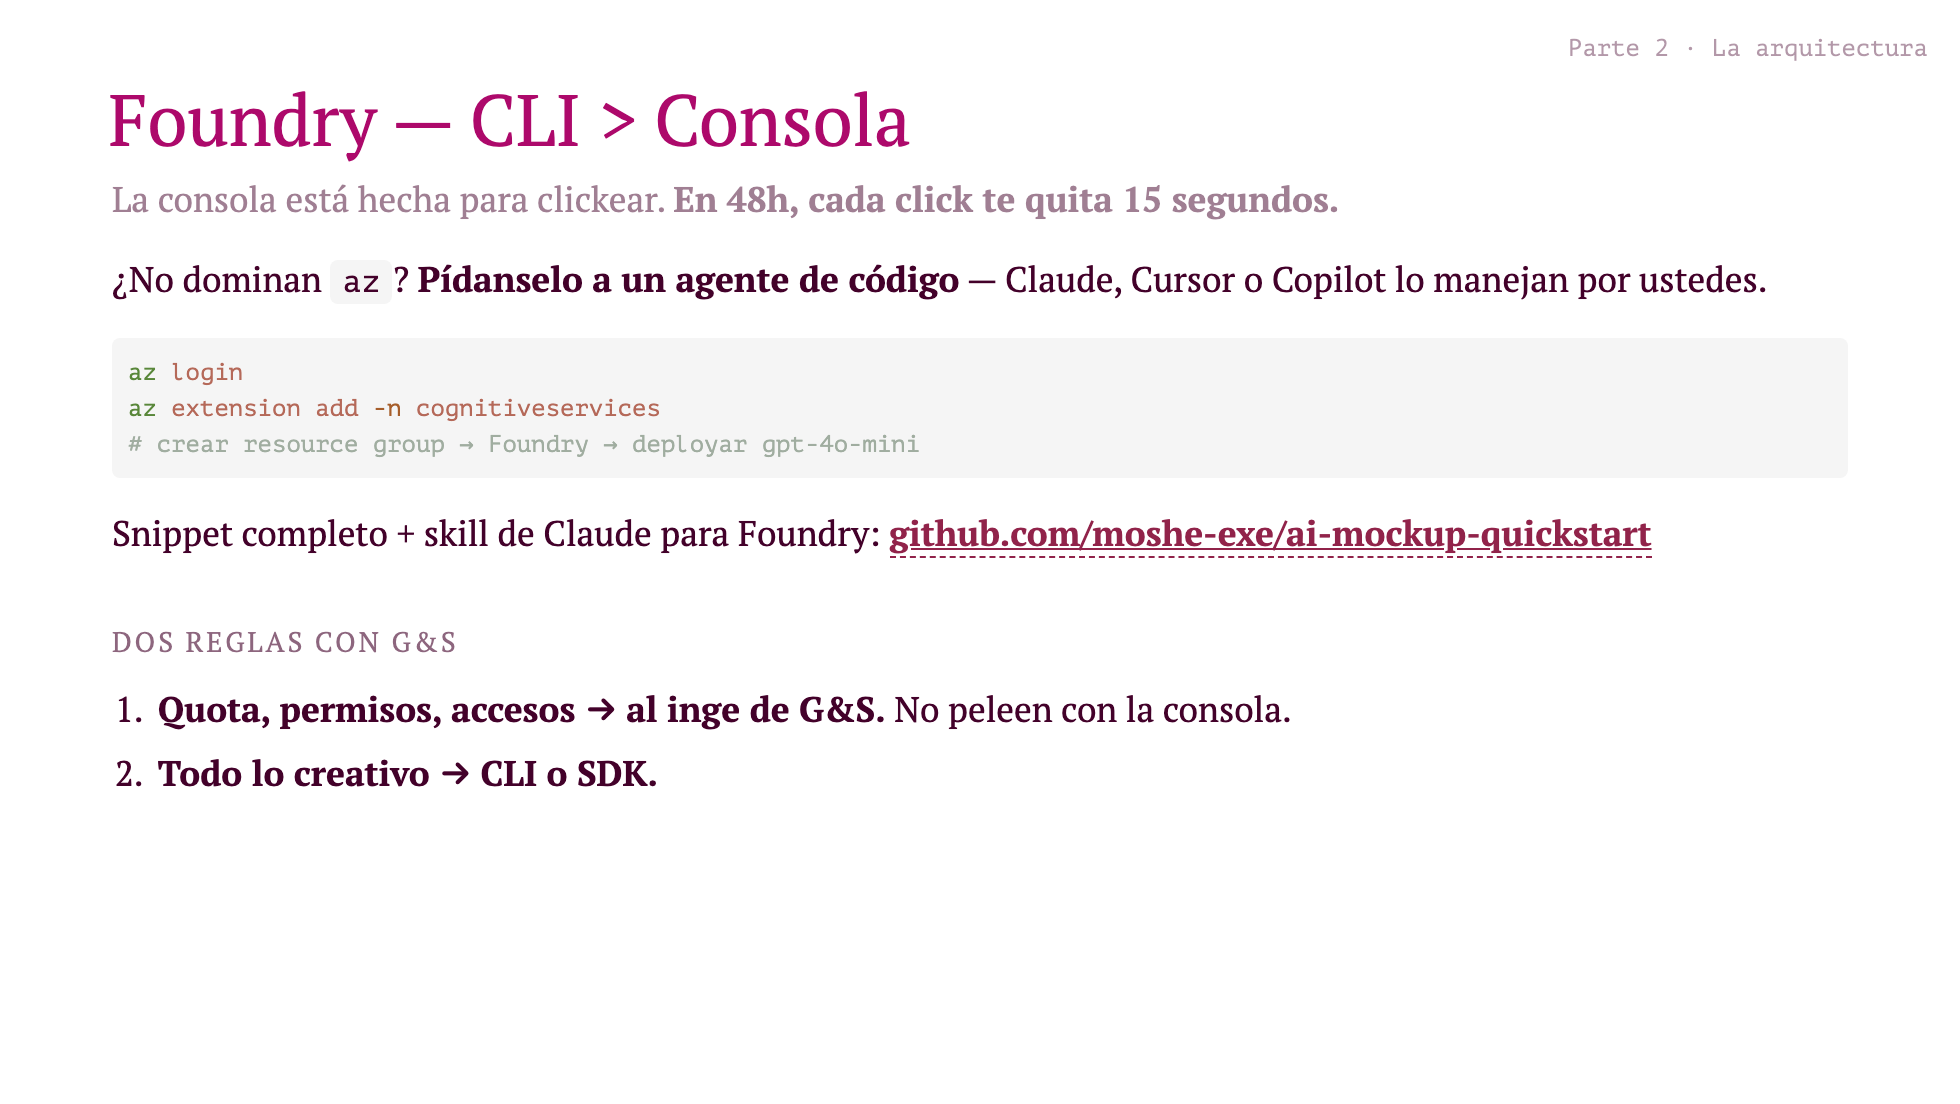
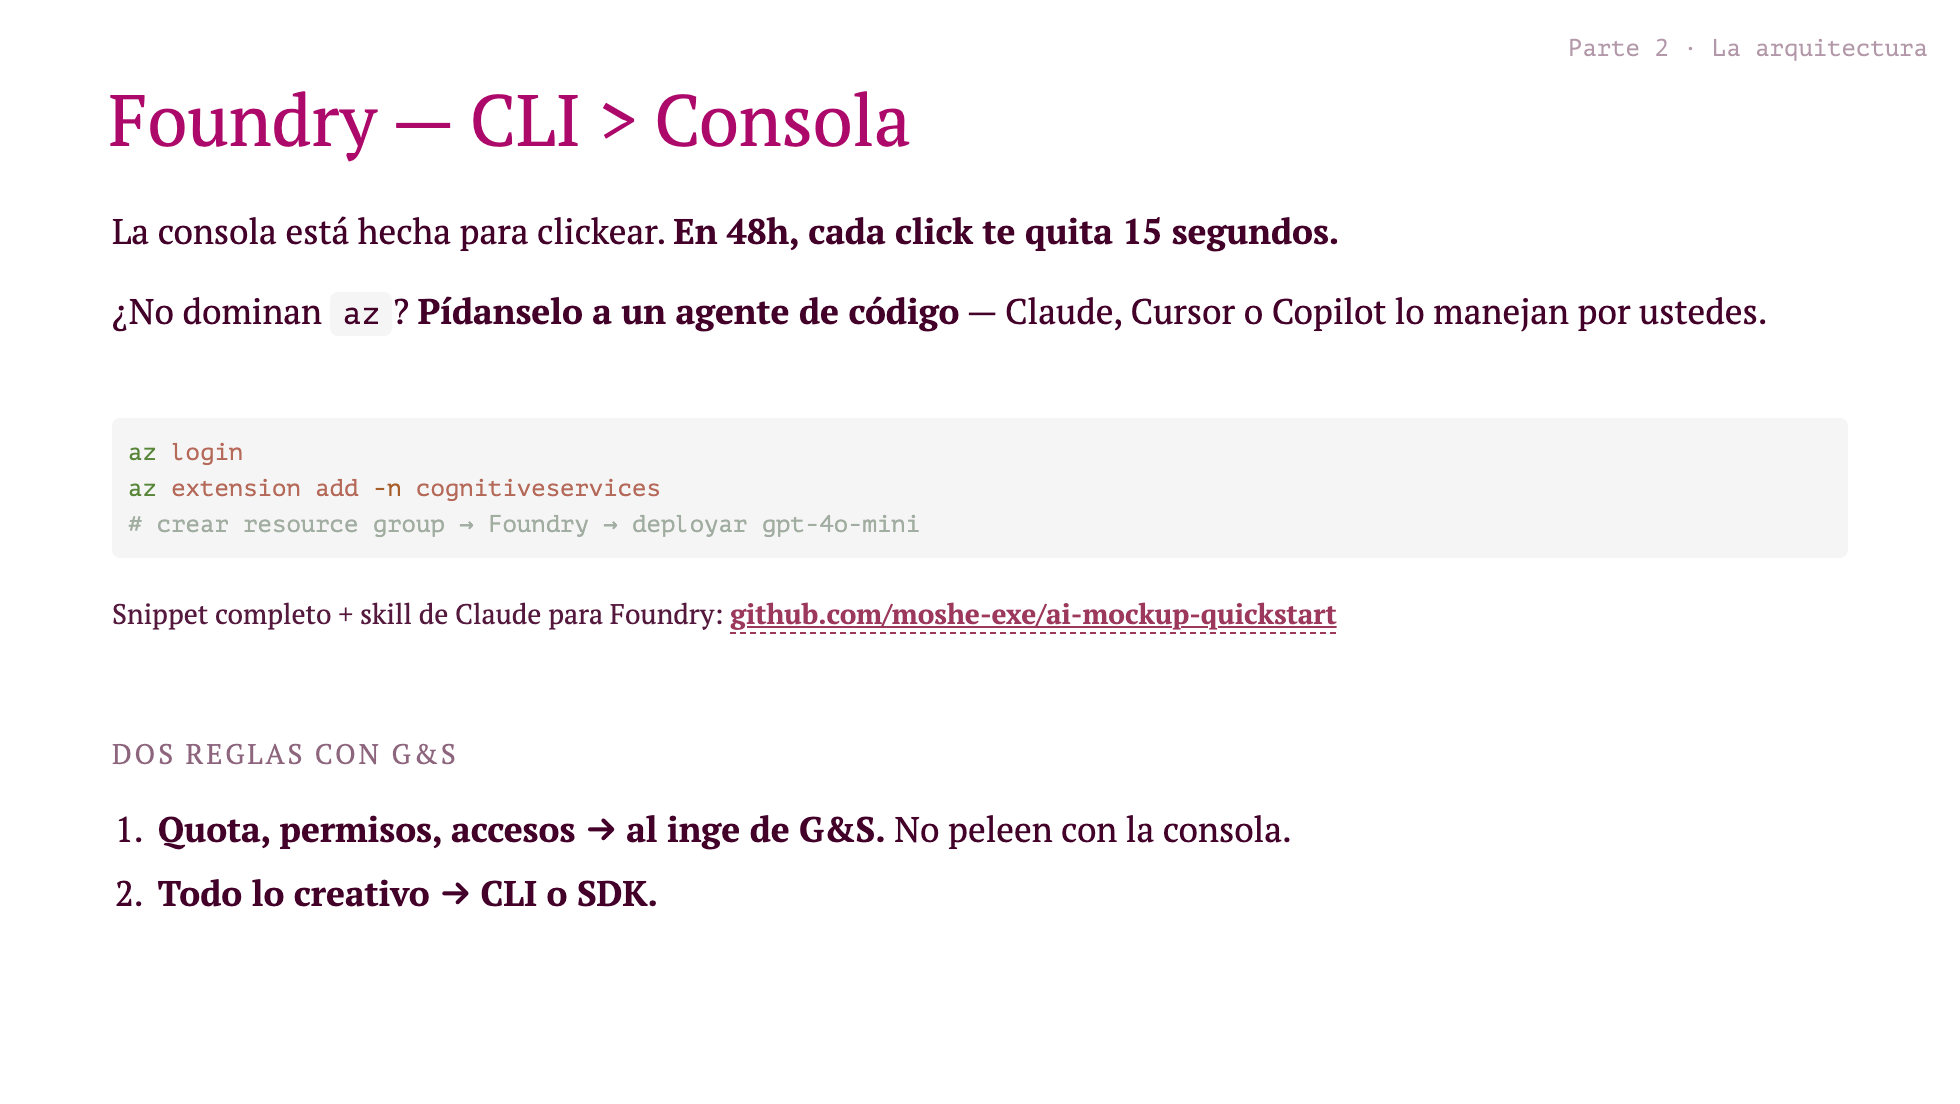
polish: iterate slides 12 and 14 — better grouping
Per Moshe feedback, reorganize the two slides where the visual rhythm
still felt cluttered after Phase 2.

Slide 12 — Foundry CLI > Consola
  Group content into 3 visual clusters (intro / code+link / G&S rules)
  with explicit mt-* gaps: tight within groups, loose between. The
  bash block and its companion link now read as one unit instead of
  competing with the rules below.

Slide 14 — No es blanco o negro
  Replace the dash-art diagram (which wrapped at text-2xl) with a
  proper flex layout: bold "Workflow" and "Agente" labels with a
  horizontal rule between them. Annotations sit under each end via
  flex justify-between. Move the diagnostic prompt + criteria
  bullets into the left col (the simple binary); right col keeps the
  v-click reveal (the gray zone). Both cols vertically centered.

diff --git a/slides.md b/slides.md
@@ -285,9 +285,15 @@ No te enamores de la primera idea. **Enamórate del problema, no de la solución
 
 # Foundry — CLI > Consola
 
+<div class="mt-6 space-y-2">
+
 La consola está hecha para clickear. **En 48h, cada click te quita 15 segundos.**
 
 ¿No dominan `az`? **Pídanselo a un agente de código** — Claude, Cursor o Copilot lo manejan por ustedes.
+
+</div>
+
+<div class="mt-10">
 
 ```bash
 az login
@@ -295,15 +301,24 @@ az extension add -n cognitiveservices
 # crear resource group → Foundry → deployar gpt-4o-mini
 ```
 
-Snippet completo + skill de Claude para Foundry:
-[**github.com/moshe-exe/ai-mockup-quickstart**](https://github.com/moshe-exe/ai-mockup-quickstart)
+<div class="mt-2 text-sm opacity-90">
 
-<div class="mt-8 text-sm uppercase tracking-widest opacity-60">Dos reglas con G&S</div>
+Snippet completo + skill de Claude para Foundry: [**github.com/moshe-exe/ai-mockup-quickstart**](https://github.com/moshe-exe/ai-mockup-quickstart)
 
-<div class="mt-2 space-y-1">
+</div>
+
+</div>
+
+<div class="mt-12">
+
+<div class="text-sm uppercase tracking-widest opacity-60">Dos reglas con G&S</div>
+
+<div class="mt-3 space-y-2">
 
 1. **Quota, permisos, accesos → al inge de G&S.** No peleen con la consola.
 2. **Todo lo creativo → CLI o SDK.**
+
+</div>
 
 </div>
 
@@ -326,28 +341,35 @@ layout: two-cols
 
 <div class="abs-tr m-4 text-xs opacity-40 font-mono">Parte 2 · La arquitectura</div>
 
-<div class="h-full flex flex-col justify-center pr-6">
+<div class="h-full flex flex-col justify-center pr-8">
 
 # No es blanco o negro
 
-<div class="text-xl mt-8 font-mono text-center">
+<div class="mt-8">
 
-Workflow ━━━━━━━━━━━━━━ Agente
+<div class="flex items-center text-lg font-mono">
+  <span class="font-bold">Workflow</span>
+  <div class="flex-1 mx-3 border-t-2 border-current opacity-60"></div>
+  <span class="font-bold">Agente</span>
+</div>
+
+<div class="mt-2 flex justify-between text-xs opacity-70 italic">
+  <span>("loguear síntoma")</span>
+  <span>("explica mi diagnóstico")</span>
+</div>
 
 </div>
 
-<div class="text-sm opacity-70 mt-2 mb-8 text-center">
+<div class="mt-10">
 
-↑ *("loguear síntoma")*   |   ↑ *("explica mi diagnóstico")*
+Pregúntate: *"¿Qué decisión tiene que tomar mi sistema?"*
 
-</div>
-
-Para arrancar, pregúntate: *"¿Qué decisión tiene que tomar mi sistema?"*
-
-<div class="mt-4 space-y-1">
+<div class="mt-3 space-y-1">
 
 - Si cabe en un `if/else` → **workflow**
 - Si cambia según el contexto → **agente**
+
+</div>
 
 </div>
 
@@ -357,17 +379,25 @@ Para arrancar, pregúntate: *"¿Qué decisión tiene que tomar mi sistema?"*
 
 <v-click>
 
-<div class="h-full flex flex-col justify-center pl-6 text-base space-y-4">
+<div class="h-full flex flex-col justify-center pl-8 text-sm space-y-3">
 
-En la mayoría de casos, el extremo correcto es obvio.
+<div class="text-xs uppercase tracking-widest opacity-60">La zona gris (en salud)</div>
 
-Pero **en salud, la zona gris aparece seguido**:
+En la mayoría de casos, el extremo correcto es obvio. Pero **en salud, la zona gris aparece seguido**:
+
+<div class="space-y-1">
 
 - una decisión puede ser **clínica** (estructurada) y **conversacional** (ambigua) a la vez,
 - el input del paciente llega libre, pero la respuesta no puede serlo,
 - la auditabilidad pesa.
 
+</div>
+
+<div class="italic opacity-85">
+
 Cuando te encuentres ahí, **no la sobrepienses**. El siguiente slide te va a sesgar.
+
+</div>
 
 </div>
 